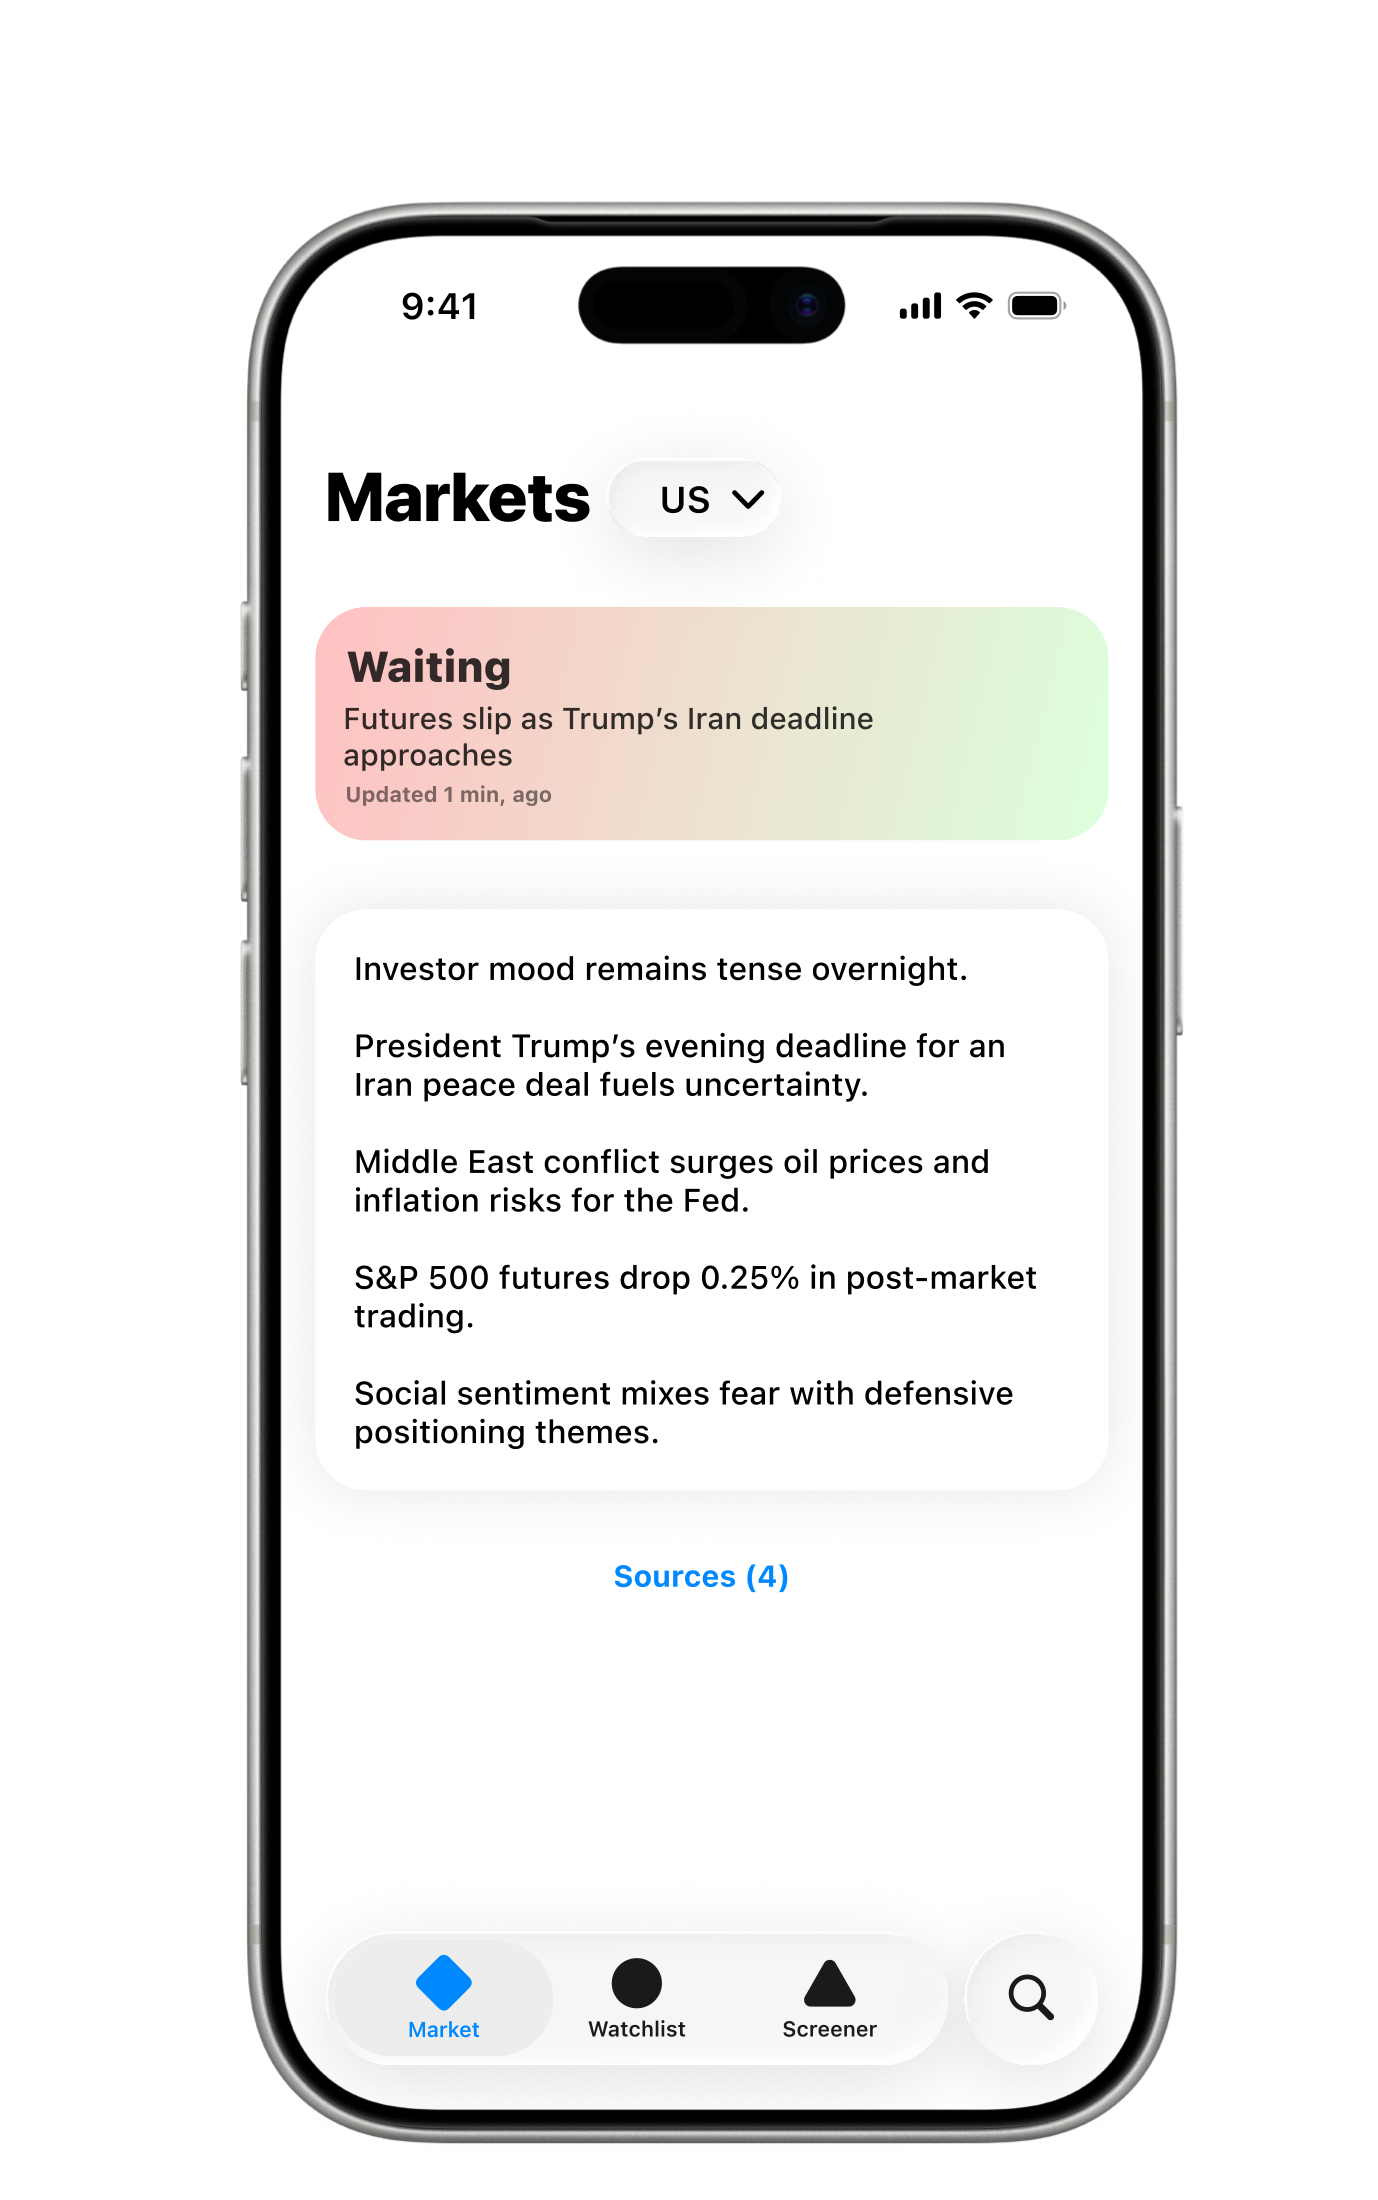
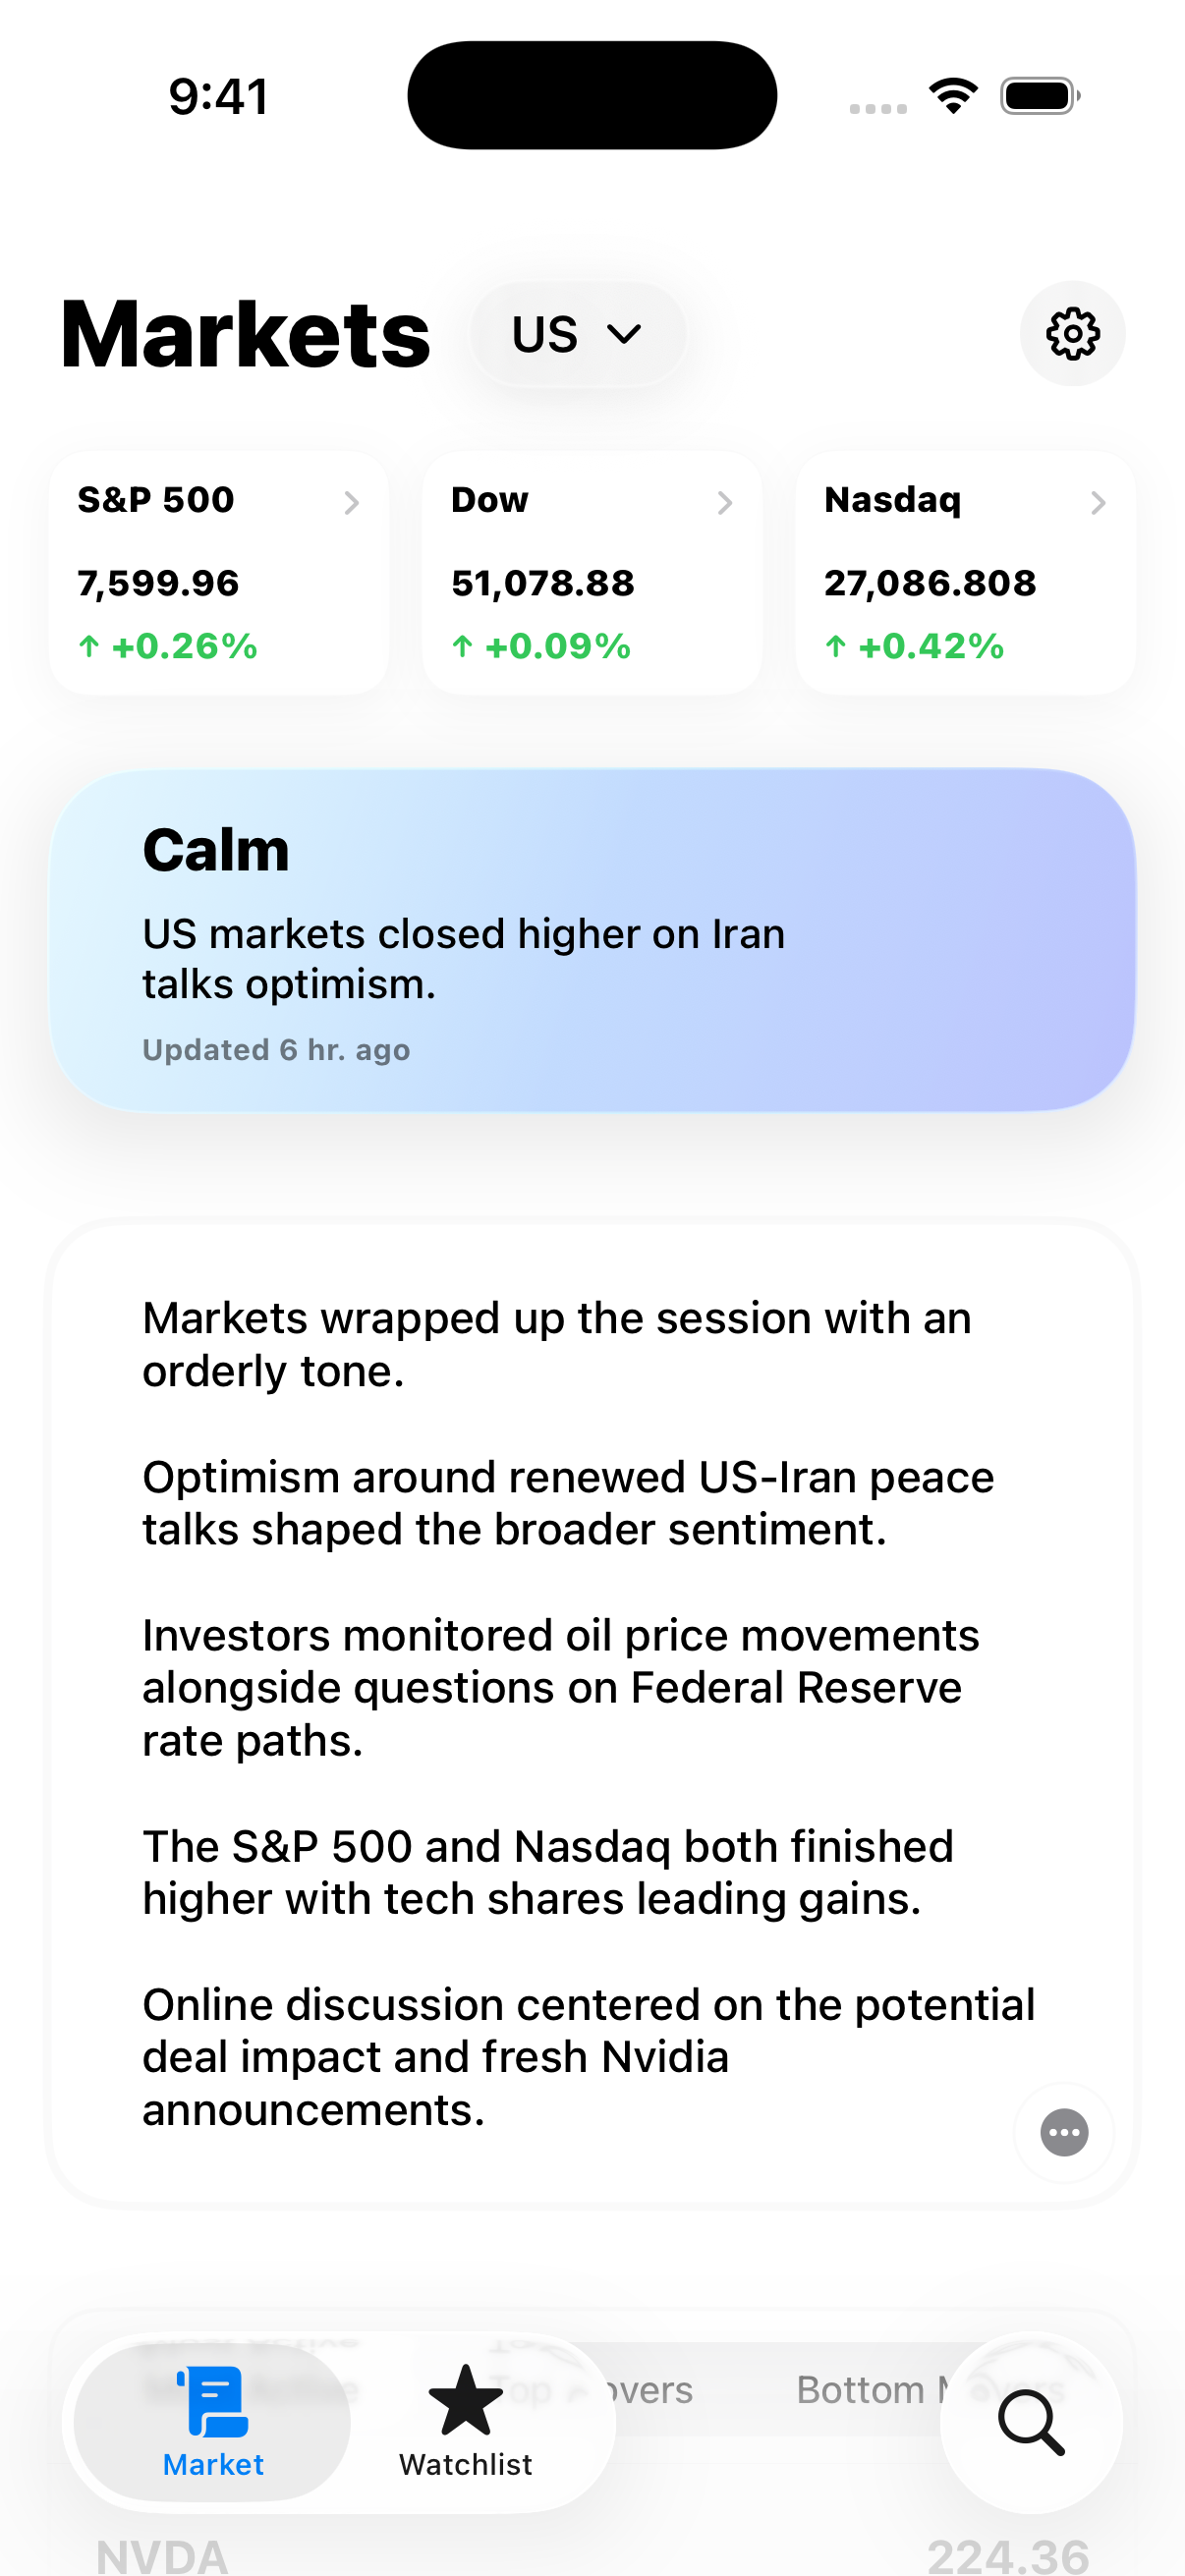
Update Vibe Markets marketing page

diff --git a/index.html b/index.html
@@ -32,7 +32,7 @@
           </div>
         </div>
         <div class="phone-wrap" aria-label="Vibe Markets app preview">
-          <img class="phone-shot" src="/assets/vibe-markets-screenshot.png" alt="Screenshot of the Vibe Markets iPhone app showing the market mood dashboard.">
+          <img class="phone-shot" src="/assets/vibe-markets-screenshot.png" alt="Screenshot of the Vibe Markets iPhone app showing the Markets dashboard.">
         </div>
       </section>
 
@@ -57,9 +57,8 @@
       <section class="section">
         <div class="contact-panel">
           <div>
-            <p class="eyebrow">App Store link coming later</p>
-            <h2>Vibe Markets is preparing for launch.</h2>
-            <p class="lead">The App Store download link will be added here after the app is published.</p>
+            <p class="eyebrow">Coming soon</p>
+            <h2>Vibe Markets is coming soon.</h2>
           </div>
           <a class="button secondary" href="mailto:[email redacted]?subject=Vibe%20Markets%20Question">Ask a question</a>
         </div>